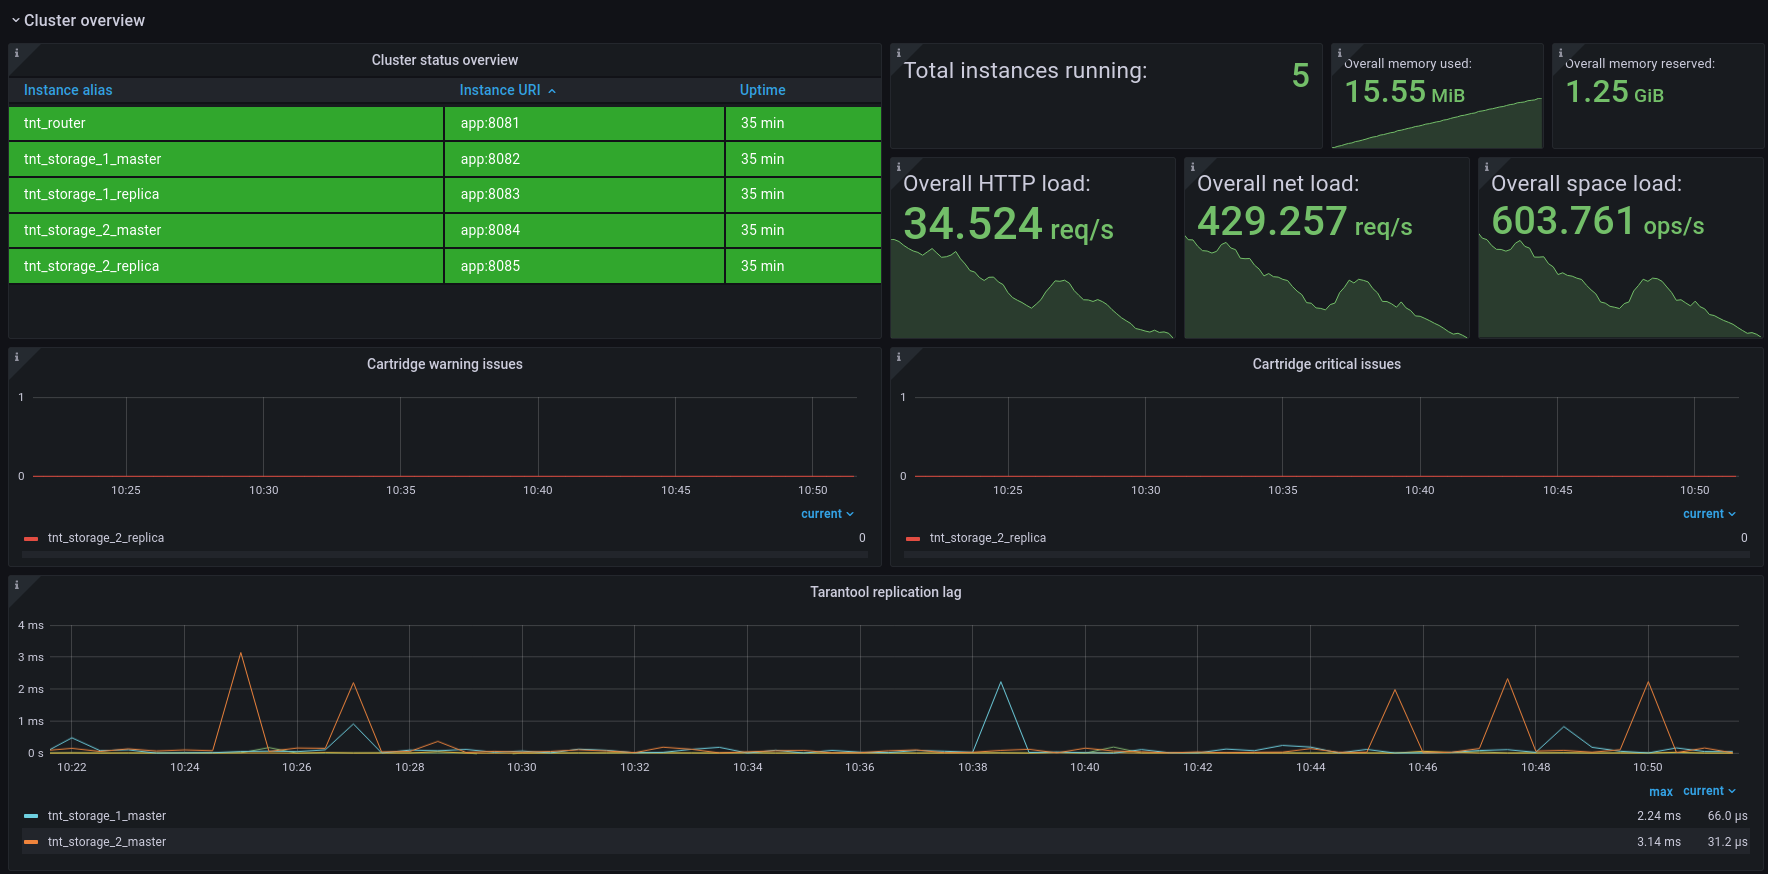
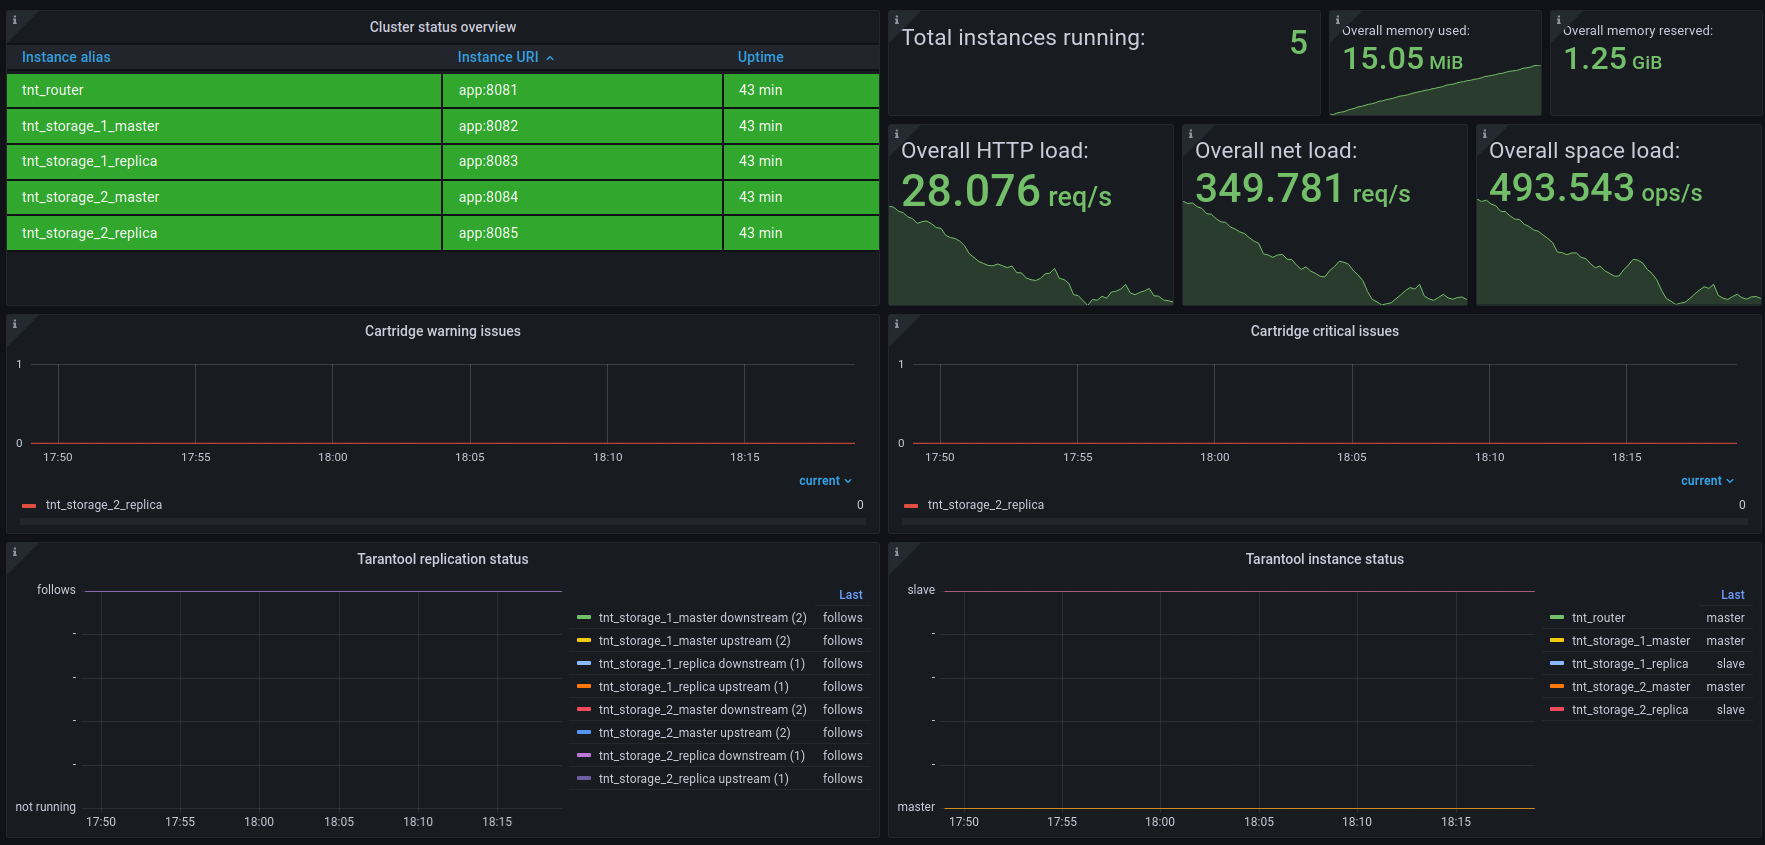
Release 1.0.0
Grafana revisions:
- InfluxDB revision 9 [1]
- Prometheus revision 10 [2]

- Space tuples number and bsize panels
- Fiber stats panels and alert example
- Event loop time panel and alert example
- LuaJit statistics panels
- Transactions memory panel
- Net memory and new binary connections panels
- Vinyl index and bloom filter memory panels
- Clock delta panel
- Replication status panel and alert example
- Read only status panel
- Vinyl regulator blocked writers panel
- Net requests in progress/in stream queue panels

- Rework "Tarantool memory memory miscellaneous" section
  to "Tarantool runtime overview"
- Vinyl disk panels name
- Update metrics version to 0.13.0
- Update panel descriptions
- Collapse dashboard rows
- Use new metrics instead of deprecated ones
- Bump Grafana requirement to 8.x

1. https://grafana.com/api/dashboards/12567/revisions/9/download
2. https://grafana.com/api/dashboards/13054/revisions/10/download

diff --git a/CHANGELOG.md b/CHANGELOG.md
@@ -4,7 +4,8 @@ All notable changes to this project will be documented in this file.
 The format is based on [Keep a Changelog](https://keepachangelog.com/en/1.0.0/),
 and this project adheres to [Semantic Versioning](https://semver.org/spec/v2.0.0.html).
 
-## Unreleased
+## [1.0.0] - 2022-05-06
+Grafana revisions: [InfluxDB revision 9](https://grafana.com/api/dashboards/12567/revisions/9/download), [Prometheus revision 10](https://grafana.com/api/dashboards/13054/revisions/10/download)
 
 ### Added
 - Space tuples number and bsize panels
